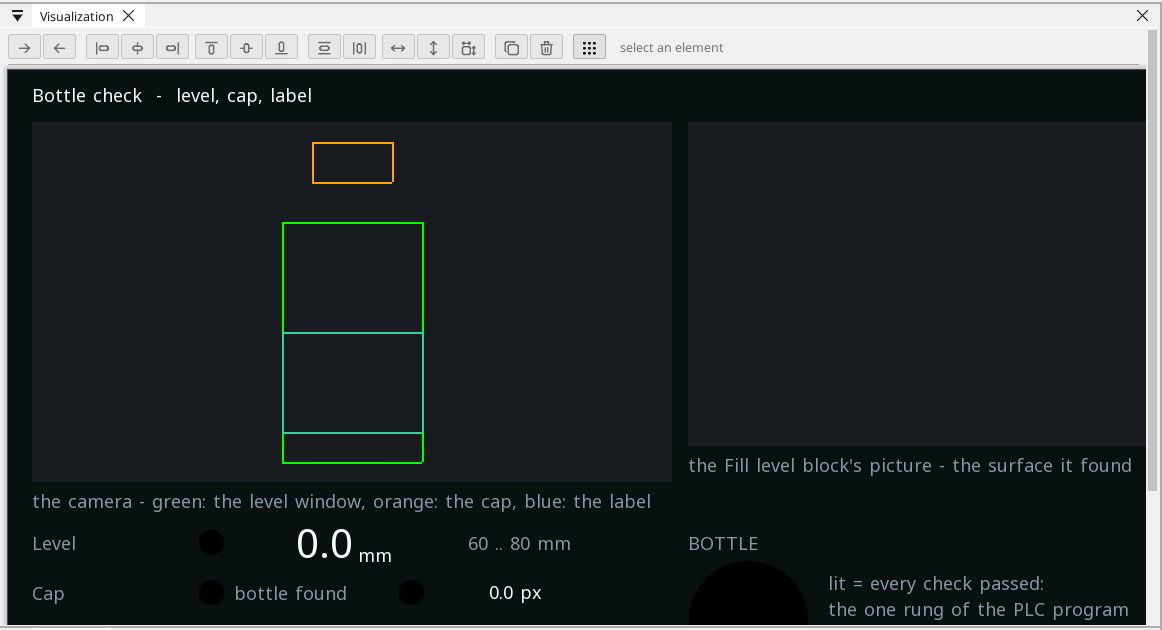
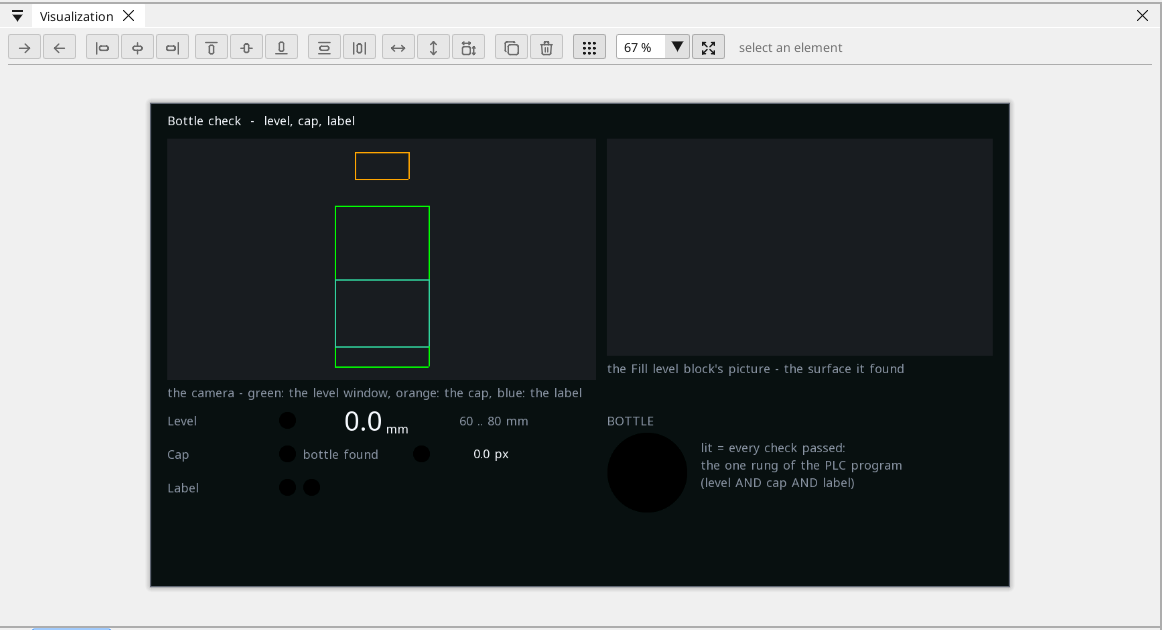
The editor pictures show the canvas bar with the zoom percentage and Fit (re-rendered after the canvas zoom); the three 1280x720 Linux screens (vehicle bus, camera, bottle check) are pictured whole at Fit instead of cut at the window's edge. What's new 1.02.000 gets the canvas zoom line.

diff --git a/docs/changelog.md b/docs/changelog.md
@@ -28,6 +28,12 @@ running its program.
   **Messages** tab under the canvas keeps what the editor said, errors in
   red, a double-click goes to the network; the **Terminal** tab beside it
   is the device's console. The page: [Ladder](ladder.md).
+- **The screen canvas zooms.** The mouse wheel over an HMI or WEB
+  screen zooms it from 25 to 400 % around the pointer; at 200, 300 and
+  400 % every panel pixel is a square block, so the picture stays the
+  panel's. The bar above the canvas shows the percentage and offers
+  *Fit*; a picture larger than the window pans with the scrollbars.
+  The page: [Controls and shortcuts](editor-controls.md).
 - **The node - an ESP32-C3 or ESP32-C6 as remote I/O.** A module with
   no program of its own: its inputs and outputs are variables the main
   device owns through net32, with a table of reflexes that act when the
